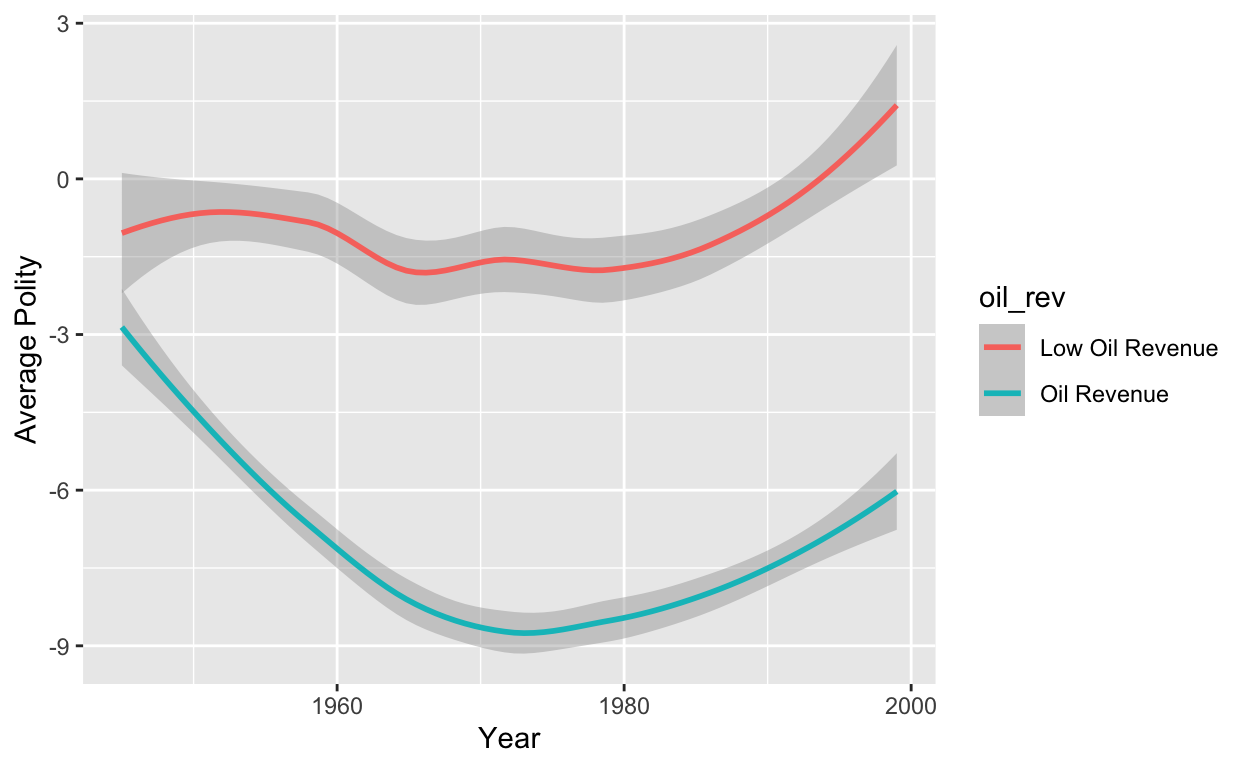
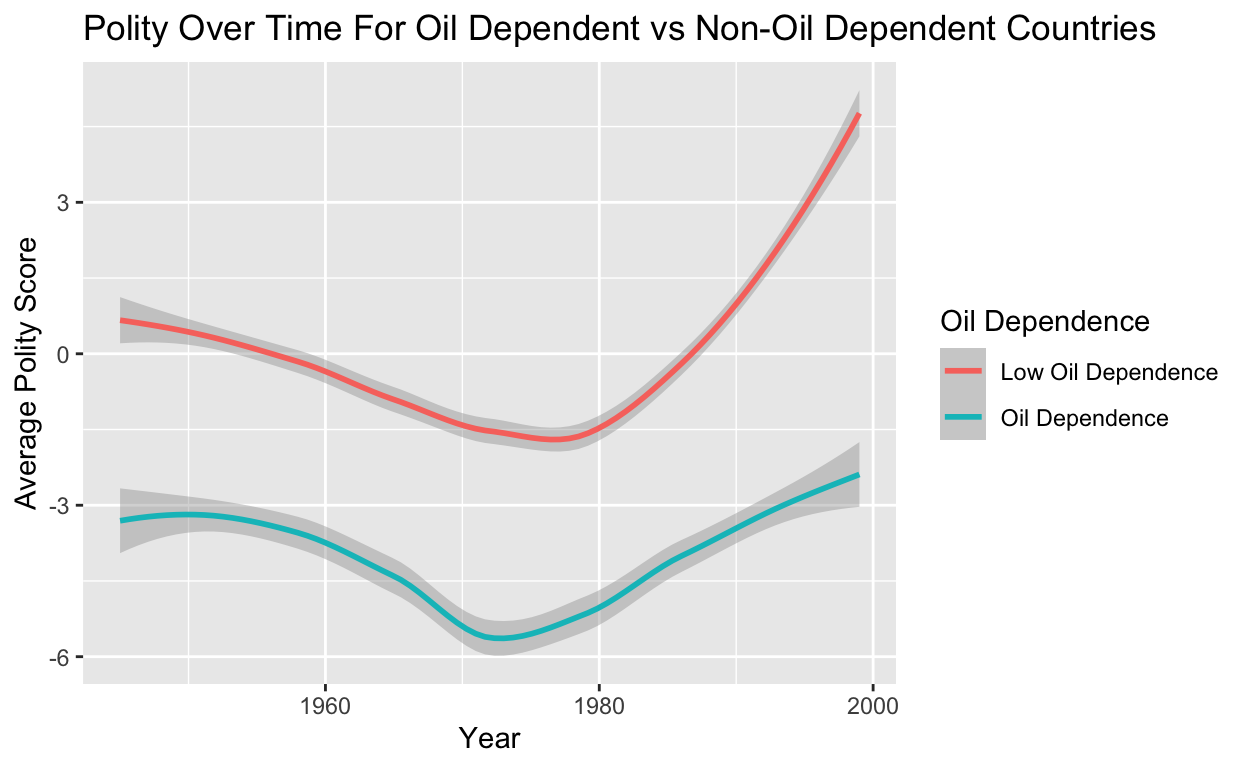
milestone 3 attempt 3

diff --git a/index.html b/index.html
@@ -115,7 +115,7 @@ code span.wa { color: #5e5e5e; font-style: italic; } /* Warning */
   <!--/radix_placeholder_rmarkdown_metadata-->
   
   <script type="text/json" id="radix-resource-manifest">
-  {"type":"character","attributes":{},"value":["data/civilwar.csv","index_files/anchor-4.2.2/anchor.min.js","index_files/bowser-1.9.3/bowser.min.js","index_files/distill-2.2.21/template.v2.js","index_files/figure-html5/unnamed-chunk-2-1.png","index_files/header-attrs-2.17/header-attrs.js","index_files/header-attrs-2.24/header-attrs.js","index_files/jquery-3.6.0/jquery-3.6.0.js","index_files/jquery-3.6.0/jquery-3.6.0.min.js","index_files/jquery-3.6.0/jquery-3.6.0.min.map","index_files/popper-2.6.0/popper.min.js","index_files/tippy-6.2.7/tippy-bundle.umd.min.js","index_files/tippy-6.2.7/tippy-light-border.css","index_files/tippy-6.2.7/tippy.css","index_files/tippy-6.2.7/tippy.umd.min.js","index_files/webcomponents-2.0.0/webcomponents.js"]}
+  {"type":"character","attributes":{},"value":["data/civilwar.csv","index_files/anchor-4.2.2/anchor.min.js","index_files/bowser-1.9.3/bowser.min.js","index_files/distill-2.2.21/template.v2.js","index_files/figure-html5/unnamed-chunk-2-1.png","index_files/figure-html5/unnamed-chunk-3-1.png","index_files/header-attrs-2.17/header-attrs.js","index_files/header-attrs-2.24/header-attrs.js","index_files/jquery-3.6.0/jquery-3.6.0.js","index_files/jquery-3.6.0/jquery-3.6.0.min.js","index_files/jquery-3.6.0/jquery-3.6.0.min.map","index_files/popper-2.6.0/popper.min.js","index_files/tippy-6.2.7/tippy-bundle.umd.min.js","index_files/tippy-6.2.7/tippy-light-border.css","index_files/tippy-6.2.7/tippy.css","index_files/tippy-6.2.7/tippy.umd.min.js","index_files/webcomponents-2.0.0/webcomponents.js"]}
   </script>
   <!--radix_placeholder_navigation_in_header-->
   <!--/radix_placeholder_navigation_in_header-->
@@ -1521,7 +1521,7 @@ code span.wa { color: #5e5e5e; font-style: italic; } /* Warning */
 <p>I am unsure of what exactly I want to explore in this project. I am potentially interested in exploring data related to racial disparities. I would also be interested into political data related to polarization. Because I live in Utah, I think it would be interesting to explore political data related to recent bills blocking gender affirming care. I’d also perhaps be interested in looking at data related to socioeconomic or racial disparities in the water crisis in Utah.</p>
 <h2 id="milestone-2-data-selection">Milestone 2: Data Selection</h2>
 <p>Does oil revenue impact democratization or the likelihood of civil war in North African or Middle Eastern nations over time?</p>
-<p>In this study, I plan to examine the extent to which oil as a significant source of revenue improves or worsens democratization or the likelihood of civil war in North Africa and the Middle East. I hypothesize that the likelihood of civil war will decrease if oil revenue is present. I believe this because extra revenue could allow governments to invest in stabilizing measures regardless of the type of regime or government. I also hypothesize that democratization will decrease further for North African and Middle Eastern nations that are non-democratic if oil revenues are present. I believe this because while extra revenue may allow nations to invest in stabilizing measures, if these nations are authoritarian, these extra measures may be similarly autocratic, thus decreasing democratization.</p>
+<p>In this study, I plan to examine the extent to which oil as a significant source of revenue is associated with better or worse democratization or the likelihood of civil war in North Africa and the Middle East. I hypothesize that the likelihood of civil war will decrease if oil revenue is present. I believe this because extra revenue could allow governments to invest in stabilizing measures regardless of the type of regime or government. I also hypothesize that democratization will decrease further for North African and Middle Eastern nations if oil revenues are present. I believe this because research related to dependence on natural resource wealth suggests that countries with economies primarily dependent on extraction of resources like oil increases authoritarianism.</p>
 <p>My sample is comprised of North African and Middle Eastern countries from 1945 to 1999. My unit of analysis is a country (e.g. “Cyprus”). The explanatory variable of interest is whether a nation has greater than one-third of export revenues from fuels or not. The variable is coded = 1 for greater than one-third of export revenues from fuels and = 0 for the opposite.</p>
 <p>My outcome variable is whether or not civil war was occurring in a given year and polity, or the index of democratization for each nation. For civil war, the variable is coded = 1 if civil war is occurring in a given year and = 0 if it is not occurring. For polity, countries are assigned scores in a range of -10 to 10, with 10 representing a consolidated autocracy and -10 representing a consolidated autocracy.</p>
 <p>If I observe that civil war occurs less frequently and that polity decreases for nations with oil revenue, this would provide evidence for my hypothesis. However, if I observe that civil war occurs more frequently and that polity increases for nations with oil revenue, this would provide evidence against my thesis.</p>
@@ -1532,28 +1532,62 @@ code span.wa { color: #5e5e5e; font-style: italic; } /* Warning */
 <span><span class='kw'><a href='https://rdrr.io/r/base/library.html'>library</a></span><span class='op'>(</span><span class='va'><a href='https://dplyr.tidyverse.org'>dplyr</a></span><span class='op'>)</span></span>
 <span><span class='kw'><a href='https://rdrr.io/r/base/library.html'>library</a></span><span class='op'>(</span><span class='va'><a href='https://ggplot2.tidyverse.org'>ggplot2</a></span><span class='op'>)</span></span>
 <span></span>
-<span><span class='va'>data</span> <span class='op'>&lt;-</span> <span class='fu'><a href='https://readr.tidyverse.org/reference/read_delim.html'>read_csv</a></span><span class='op'>(</span><span class='st'>"data/civilwar.csv"</span><span class='op'>)</span> </span>
-<span></span>
-<span><span class='va'>nafrme_data</span> <span class='op'>&lt;-</span> <span class='va'>data</span> <span class='op'>|&gt;</span></span>
-<span>  <span class='fu'><a href='https://dplyr.tidyverse.org/reference/filter.html'>filter</a></span><span class='op'>(</span><span class='va'>nafrme</span> <span class='op'>==</span> <span class='fl'>1</span><span class='op'>)</span> </span></code></pre>
+<span><span class='va'>data</span> <span class='op'>&lt;-</span> <span class='fu'><a href='https://readr.tidyverse.org/reference/read_delim.html'>read_csv</a></span><span class='op'>(</span><span class='st'>"data/civilwar.csv"</span><span class='op'>)</span> </span></code></pre>
 </div>
 </div>
 <div class="layout-chunk" data-layout="l-body">
 <div class="sourceCode">
-<pre class="sourceCode r"><code class="sourceCode r"><span><span class='va'>nafrme_data</span> <span class='op'>|&gt;</span></span>
+<pre class="sourceCode r"><code class="sourceCode r"><span><span class='co'># Create oil_rev variable and calculate avg polity by oil_rev</span></span>
+<span></span>
+<span><span class='va'>polity_data</span> <span class='op'>&lt;-</span> <span class='va'>data</span> <span class='op'>|&gt;</span></span>
 <span>  <span class='fu'><a href='https://dplyr.tidyverse.org/reference/mutate.html'>mutate</a></span><span class='op'>(</span></span>
-<span>    oil_rev <span class='op'>=</span> <span class='fu'><a href='https://dplyr.tidyverse.org/reference/if_else.html'>if_else</a></span><span class='op'>(</span><span class='va'>Oil</span> <span class='op'>==</span> <span class='fl'>1</span>, <span class='st'>"Oil Revenue"</span>, <span class='st'>"Low Oil Revenue"</span><span class='op'>)</span></span>
+<span>    oil_rev <span class='op'>=</span> <span class='fu'><a href='https://dplyr.tidyverse.org/reference/if_else.html'>if_else</a></span><span class='op'>(</span><span class='va'>Oil</span> <span class='op'>==</span> <span class='fl'>1</span>, <span class='st'>"Oil Dependence"</span>, <span class='st'>"Low Oil Dependence"</span><span class='op'>)</span></span>
 <span>  <span class='op'>)</span> <span class='op'>|&gt;</span></span>
 <span>  <span class='fu'><a href='https://dplyr.tidyverse.org/reference/group_by.html'>group_by</a></span><span class='op'>(</span><span class='va'>oil_rev</span>, <span class='va'>year</span><span class='op'>)</span> <span class='op'>|&gt;</span></span>
-<span>  <span class='fu'><a href='https://dplyr.tidyverse.org/reference/summarise.html'>summarize</a></span><span class='op'>(</span>avg_polity <span class='op'>=</span> <span class='fu'><a href='https://rdrr.io/r/base/mean.html'>mean</a></span><span class='op'>(</span><span class='va'>polity2</span>, na.rm <span class='op'>=</span> <span class='cn'>TRUE</span><span class='op'>)</span><span class='op'>)</span> <span class='op'>|&gt;</span></span>
+<span>  <span class='fu'><a href='https://dplyr.tidyverse.org/reference/summarise.html'>summarize</a></span><span class='op'>(</span>avg_polity <span class='op'>=</span> <span class='fu'><a href='https://rdrr.io/r/base/mean.html'>mean</a></span><span class='op'>(</span><span class='va'>polity2</span>, na.rm <span class='op'>=</span> <span class='cn'>TRUE</span><span class='op'>)</span><span class='op'>)</span> </span>
+<span></span>
+<span><span class='co'># Graph polity over time for oil dependent and non-oil dependent nations</span></span>
+<span></span>
+<span><span class='va'>polity_plot</span> <span class='op'>&lt;-</span> <span class='va'>polity_data</span> <span class='op'>|&gt;</span></span>
 <span>  <span class='fu'><a href='https://ggplot2.tidyverse.org/reference/ggplot.html'>ggplot</a></span><span class='op'>(</span>mapping <span class='op'>=</span> <span class='fu'><a href='https://ggplot2.tidyverse.org/reference/aes.html'>aes</a></span><span class='op'>(</span>x <span class='op'>=</span> <span class='va'>year</span>, y <span class='op'>=</span> <span class='va'>avg_polity</span>, color <span class='op'>=</span> <span class='va'>oil_rev</span><span class='op'>)</span><span class='op'>)</span> <span class='op'>+</span></span>
 <span>  <span class='fu'><a href='https://ggplot2.tidyverse.org/reference/geom_smooth.html'>geom_smooth</a></span><span class='op'>(</span><span class='op'>)</span> <span class='op'>+</span></span>
 <span>  <span class='fu'><a href='https://ggplot2.tidyverse.org/reference/labs.html'>labs</a></span><span class='op'>(</span></span>
 <span>    x <span class='op'>=</span> <span class='st'>"Year"</span>,</span>
-<span>    y <span class='op'>=</span> <span class='st'>"Average Polity"</span></span>
-<span>  <span class='op'>)</span></span></code></pre>
+<span>    y <span class='op'>=</span> <span class='st'>"Average Polity Score"</span>,</span>
+<span>    title <span class='op'>=</span> <span class='st'>"Polity Over Time For Oil Dependent vs Non-Oil Dependent Countries"</span>,</span>
+<span>    color <span class='op'>=</span> <span class='st'>"Oil Dependence"</span></span>
+<span>  <span class='op'>)</span></span>
+<span></span>
+<span><span class='va'>polity_plot</span></span></code></pre>
 </div>
 <p><img src="index_files/figure-html5/unnamed-chunk-2-1.png" width="624" /></p>
+</div>
+<div class="layout-chunk" data-layout="l-body">
+<div class="sourceCode">
+<pre class="sourceCode r"><code class="sourceCode r"><span><span class='co'># Create oil dependence variable</span></span>
+<span></span>
+<span><span class='va'>war_data</span> <span class='op'>&lt;-</span> <span class='va'>data</span> <span class='op'>|&gt;</span></span>
+<span>  <span class='fu'><a href='https://dplyr.tidyverse.org/reference/mutate.html'>mutate</a></span><span class='op'>(</span></span>
+<span>    oil_rev <span class='op'>=</span> <span class='fu'><a href='https://dplyr.tidyverse.org/reference/if_else.html'>if_else</a></span><span class='op'>(</span><span class='va'>Oil</span> <span class='op'>==</span> <span class='fl'>1</span>, <span class='st'>"Oil Dependence"</span>, <span class='st'>"Low Oil Dependence"</span><span class='op'>)</span></span>
+<span>  <span class='op'>)</span> </span>
+<span></span>
+<span><span class='co'># Graph the proportion of active civil war over time for oil-dependent and non-oil dependent countries</span></span>
+<span></span>
+<span><span class='va'>war_plot</span> <span class='op'>&lt;-</span> <span class='va'>war_data</span> <span class='op'>|&gt;</span></span>
+<span>  <span class='fu'><a href='https://dplyr.tidyverse.org/reference/group_by.html'>group_by</a></span><span class='op'>(</span><span class='va'>oil_rev</span>, <span class='va'>year</span><span class='op'>)</span> <span class='op'>|&gt;</span></span>
+<span>  <span class='fu'><a href='https://dplyr.tidyverse.org/reference/summarise.html'>summarize</a></span><span class='op'>(</span>prop_war <span class='op'>=</span> <span class='fu'><a href='https://rdrr.io/r/base/mean.html'>mean</a></span><span class='op'>(</span><span class='va'>war</span>, na.rm <span class='op'>=</span> <span class='cn'>TRUE</span><span class='op'>)</span><span class='op'>)</span> <span class='op'>|&gt;</span></span>
+<span>  <span class='fu'><a href='https://ggplot2.tidyverse.org/reference/ggplot.html'>ggplot</a></span><span class='op'>(</span>mapping <span class='op'>=</span> <span class='fu'><a href='https://ggplot2.tidyverse.org/reference/aes.html'>aes</a></span><span class='op'>(</span>x <span class='op'>=</span> <span class='va'>year</span>, y <span class='op'>=</span> <span class='va'>prop_war</span>, color <span class='op'>=</span> <span class='va'>oil_rev</span><span class='op'>)</span><span class='op'>)</span> <span class='op'>+</span></span>
+<span>  <span class='fu'><a href='https://ggplot2.tidyverse.org/reference/geom_smooth.html'>geom_smooth</a></span><span class='op'>(</span><span class='op'>)</span> <span class='op'>+</span></span>
+<span>  <span class='fu'><a href='https://ggplot2.tidyverse.org/reference/labs.html'>labs</a></span><span class='op'>(</span></span>
+<span>    x <span class='op'>=</span> <span class='st'>"Year"</span>,</span>
+<span>    y <span class='op'>=</span> <span class='st'>"Proportion of Active Civil War"</span>,</span>
+<span>    title <span class='op'>=</span> <span class='st'>"Proportion of Active Civil War over Time for Oil-Dependent and Non-Oil Dependent Countries"</span>,</span>
+<span>    color <span class='op'>=</span> <span class='st'>"Oil Dependence"</span></span>
+<span>  <span class='op'>)</span></span>
+<span></span>
+<span><span class='va'>war_plot</span></span></code></pre>
+</div>
+<p><img src="index_files/figure-html5/unnamed-chunk-3-1.png" width="624" /></p>
 </div>
 <div class="sourceCode" id="cb1"><pre class="sourceCode r distill-force-highlighting-css"><code class="sourceCode r"></code></pre></div>
 <!--radix_placeholder_article_footer-->
